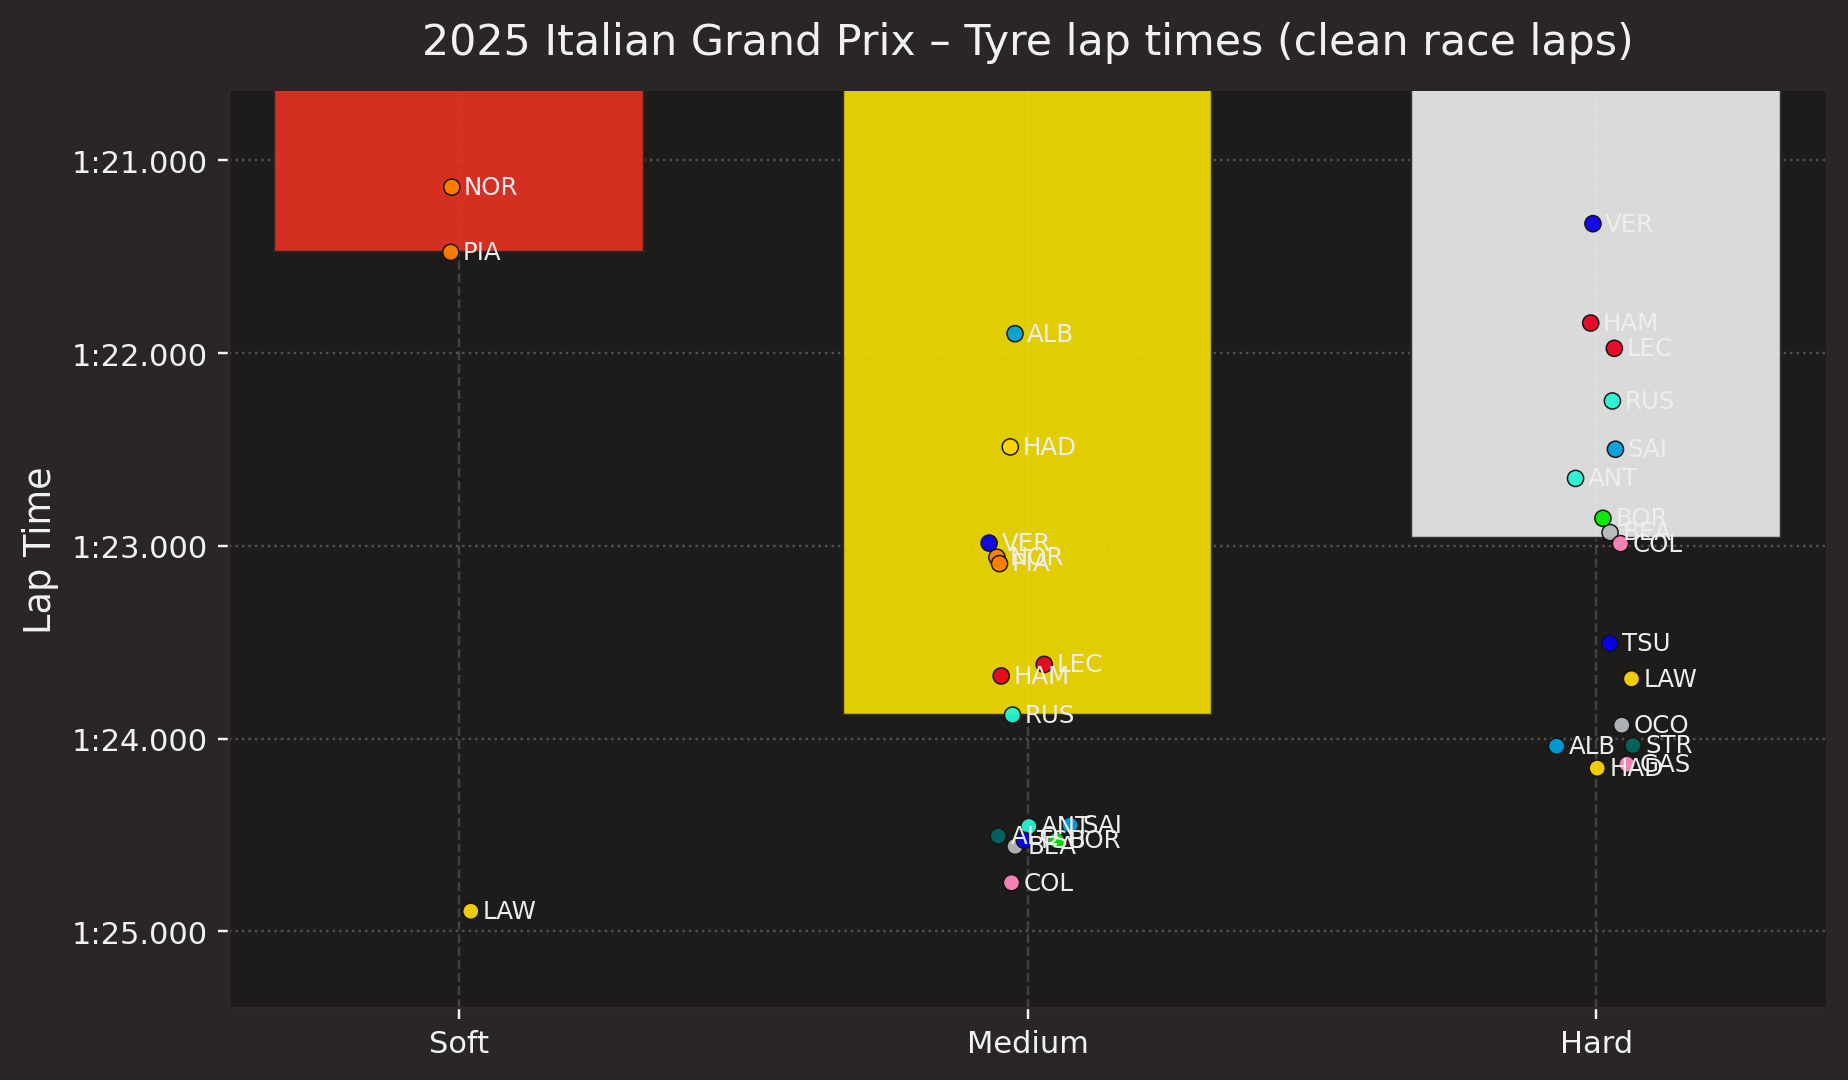
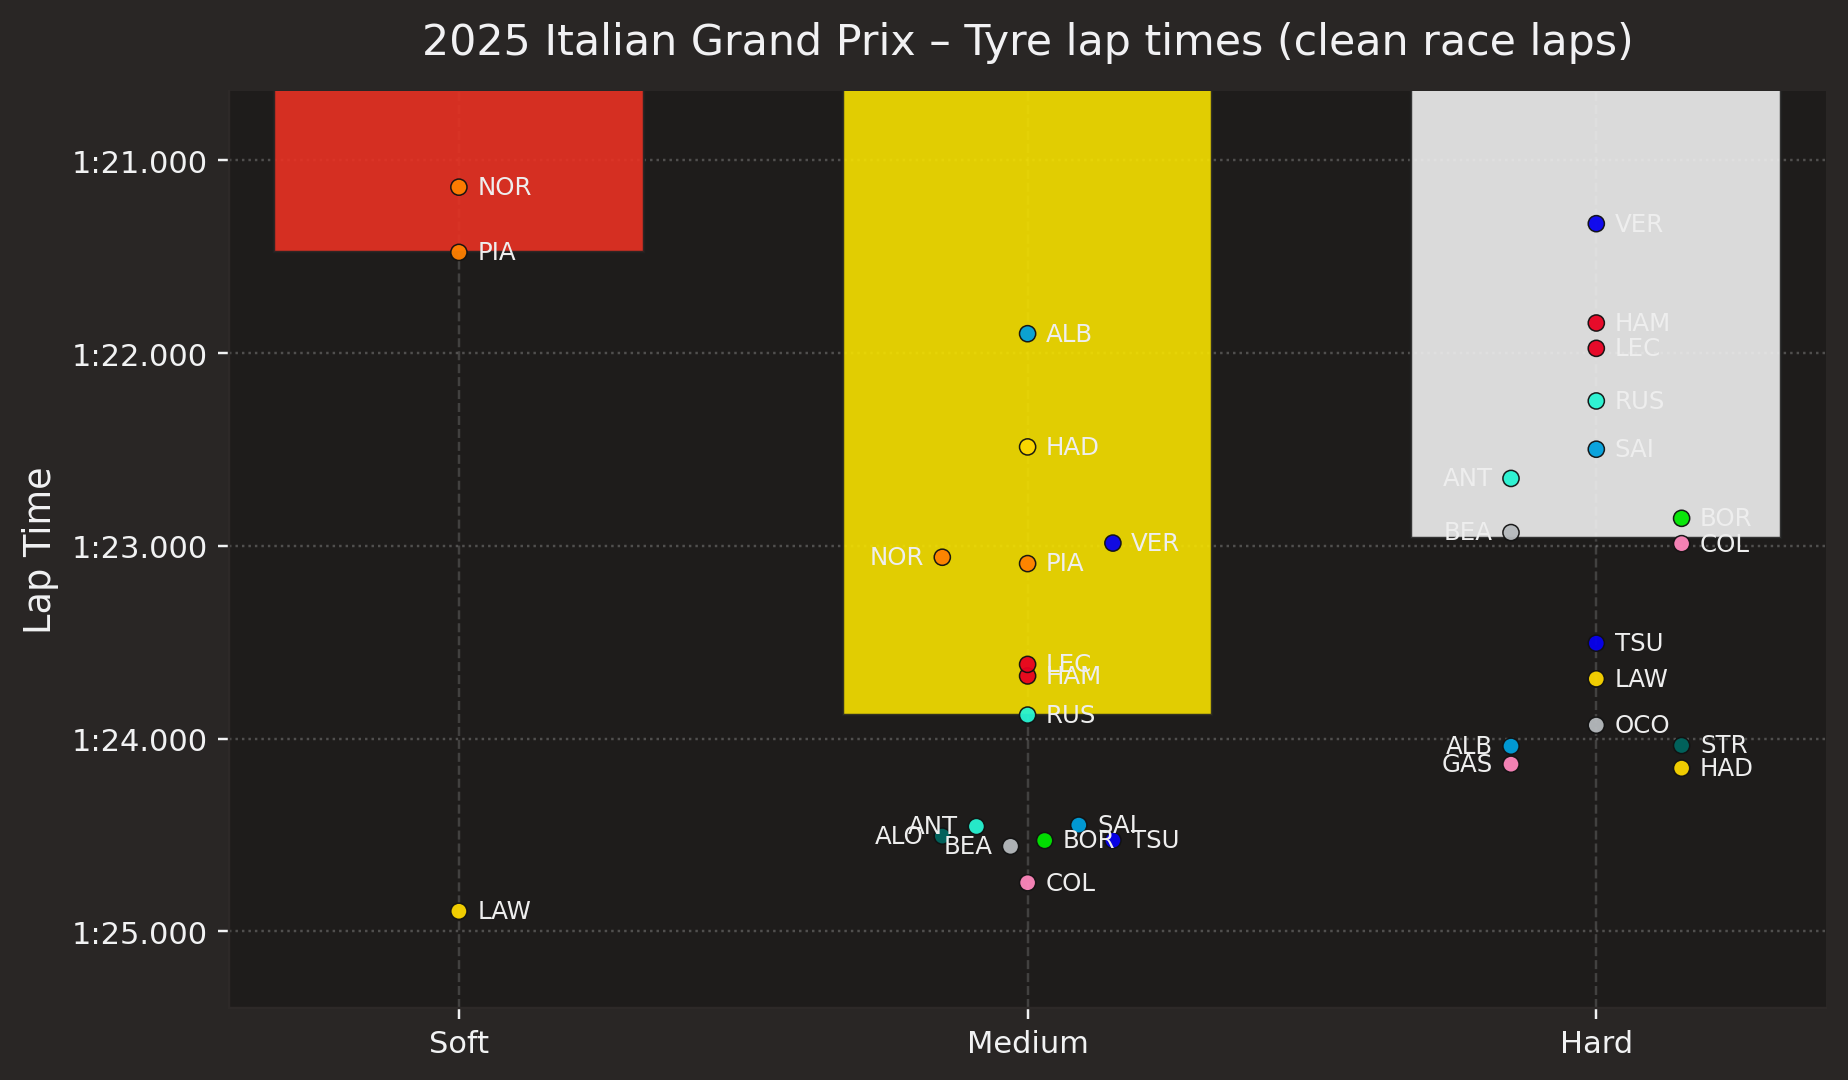
Enhance tyre performance chart for 2025 Italian Grand Prix
- Updated the tyre performance plotting function to improve the visualization of driver lap times.
- Implemented a swarm plot effect to reduce overlap of data points, enhancing clarity.
- Adjusted annotation positioning for better readability of driver labels.
- Updated the binary asset for the tyre performance chart.

diff --git a/src/fastf1_analytics/charts/tyre_performance.py b/src/fastf1_analytics/charts/tyre_performance.py
@@ -149,31 +149,61 @@ def build_tyre_performance(
     bar_colors = [get_compound_color(c) for c in xcats]
     ax.bar(xs, medians, width=0.65, edgecolor="#222", linewidth=0.8, color=bar_colors, alpha=0.9)
 
-    # Dots = each driver's aggregated lap time (team-colored, jittered)
-    jitter = (np.random.rand(len(per_driver)) - 0.5) * 0.15
+    SWARM_WIDTH = 0.15  # max horizontal spread (in x-axis category units)
+    EPS_SECONDS = 0.25  # points within this lap-time window are considered overlapping
+
     x_map = {c: i for i, c in enumerate(xcats)}
-    per_driver = per_driver[per_driver["Compound"].isin(xcats)]
+    per_driver = per_driver[per_driver["Compound"].isin(xcats)].copy()
 
-    xpts = per_driver["Compound"].map(x_map).to_numpy(dtype=float) + jitter
-    ypts = per_driver["laptime_s"].to_numpy()
+    # Build x/y arrays and also keep row indices for annotations
+    comp_arr = per_driver["Compound"].map(x_map).to_numpy(dtype=float)
+    y_arr = per_driver["laptime_s"].to_numpy()
     colors = per_driver["dot_color"].to_numpy()
+    drivers = per_driver["Driver"].to_numpy()
 
+    # Compute horizontal offsets per compound so close-in-y points are spread
+    x_offsets = np.zeros_like(y_arr, dtype=float)
+
+    for c_idx in range(len(xcats)):
+        mask = comp_arr == c_idx
+        if not mask.any():
+            continue
+        y_grp = y_arr[mask]
+
+        # cluster by lap-time proximity (round onto EPS-sized bins)
+        bins = np.round(y_grp / EPS_SECONDS).astype(int)
+        x_off_grp = np.zeros_like(y_grp, dtype=float)
+
+        # for each bin (cluster of near-overlapping points), spread them across [-W, +W]
+        for b in np.unique(bins):
+            idx = np.where(mask)[0][bins == b]  # indices into the full arrays
+            n = len(idx)
+            if n == 1:
+                continue
+            x_off_grp[bins == b] = np.linspace(-SWARM_WIDTH, SWARM_WIDTH, n)
+
+        x_offsets[mask] = x_off_grp
+
+    # Final coordinates
+    xpts = comp_arr + x_offsets
+    ypts = y_arr
+
+    # Plot points (team-colored)
     ax.scatter(xpts, ypts, s=28, alpha=0.95, c=colors, edgecolor="#111", linewidth=0.5)
 
-    # Annotate each dot with the driver code
-    for xi, yi, drv in zip(xpts, ypts, per_driver["Driver"].to_numpy()):
+    # Annotate each dot with the driver code, nudged left/right to match offset
+    for xi, yi, drv, xo in zip(xpts, ypts, drivers, x_offsets):
         ax.annotate(
             drv,
             (xi, yi),
-            xytext=(4, 0),
+            xytext=(6 if xo >= 0 else -6, 0),  # push label away from the dot
             textcoords="offset points",
             fontsize=8,
-            ha="left",
+            ha="left" if xo >= 0 else "right",
             va="center",
             color="#EEEEEE",
             clip_on=True,
         )
-
     ax.set_xticks(xs, [c.title() for c in xcats])
     ax.set_ylabel("Lap Time")
     ax.yaxis.set_major_formatter(seconds_formatter())
